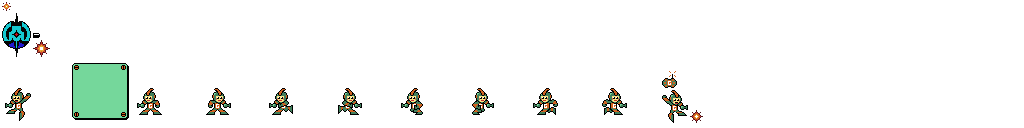
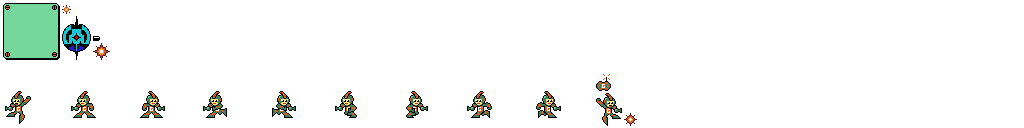
Add 9 patches for the platforms

diff --git a/GigaGalPrototype/core/src/com/udacity/gamedev/gigagal/util/Assets.java b/GigaGalPrototype/core/src/com/udacity/gamedev/gigagal/util/Assets.java
@@ -6,10 +6,9 @@ import com.badlogic.gdx.assets.AssetErrorListener;
 import com.badlogic.gdx.assets.AssetManager;
 import com.badlogic.gdx.graphics.g2d.Animation;
 import com.badlogic.gdx.graphics.g2d.Animation.PlayMode;
-import com.badlogic.gdx.graphics.g2d.SpriteBatch;
+import com.badlogic.gdx.graphics.g2d.NinePatch;
 import com.badlogic.gdx.graphics.g2d.TextureAtlas;
 import com.badlogic.gdx.graphics.g2d.TextureAtlas.AtlasRegion;
-import com.badlogic.gdx.math.Vector2;
 import com.badlogic.gdx.utils.Array;
 import com.sun.media.jfxmediaimpl.MediaDisposer.Disposable;
 
@@ -23,6 +22,7 @@ public class Assets implements Disposable, AssetErrorListener {
     private AssetManager assetManager;
 
     public GigaGalAssets gigaGalAssets;
+    public PlatformAssets platformAssets;
 
     public static final Assets instance = new Assets();
 
@@ -39,6 +39,7 @@ public class Assets implements Disposable, AssetErrorListener {
 
         TextureAtlas atlas = assetManager.get(Constants.TEXTURE_ATLAS);
         gigaGalAssets = new GigaGalAssets(atlas);
+        platformAssets = new PlatformAssets(atlas);
     }
 
     @Override
@@ -90,15 +91,23 @@ public class Assets implements Disposable, AssetErrorListener {
             walkingRightFrames.add(atlas.findRegion(Constants.WALKING_RIGHT_3));
             walkingRightAnimation = new Animation(Constants.WALK_LOOP_DURATION, walkingRightFrames, PlayMode.LOOP);
 
-
             Gdx.app.log(TAG, "GigaGal assets ready!");
+        }
+    }
+
+    public class PlatformAssets{
+
+        public final NinePatch platformNinePatch;
+
+        public PlatformAssets(TextureAtlas atlas){
+
+            AtlasRegion region = atlas.findRegion(Constants.PLATFORM_SPRITE);
+
+            int edge = Constants.PLATFORM_EDGE;
+
+            platformNinePatch = new NinePatch(region, edge, edge, edge, edge);
 
         }
-
-        public void render(SpriteBatch batch, Vector2 position){
-
-        }
-
 
     }
 

diff --git a/GigaGalPrototype/core/src/com/udacity/gamedev/gigagal/entities/GigaGal.java b/GigaGalPrototype/core/src/com/udacity/gamedev/gigagal/entities/GigaGal.java
@@ -48,26 +48,7 @@ public class GigaGal {
     public void update(float delta, Array<Platform> platforms) {
         lastFramePosition.set(position);
 
-        if (Gdx.input.isKeyPressed(Keys.LEFT)) {
-            moveLeft(delta);
-        } else if (Gdx.input.isKeyPressed(Keys.RIGHT)) {
-            moveRight(delta);
-        } else {
-            walkState = WalkState.STANDING;
 
-        }
-
-        if (Gdx.input.isKeyPressed(Keys.Z)) {
-            switch (jumpState) {
-                case GROUNDED:
-                    startJump();
-                    break;
-                case JUMPING:
-                    continueJump();
-            }
-        } else {
-            endJump();
-        }
 
 
         velocity.y -= Constants.GRAVITY;
@@ -111,9 +92,27 @@ public class GigaGal {
                 }
             }
 
+        }
 
+        if (Gdx.input.isKeyPressed(Keys.LEFT)) {
+            moveLeft(delta);
+        } else if (Gdx.input.isKeyPressed(Keys.RIGHT)) {
+            moveRight(delta);
+        } else {
+            walkState = WalkState.STANDING;
 
+        }
 
+        if (Gdx.input.isKeyPressed(Keys.Z)) {
+            switch (jumpState) {
+                case GROUNDED:
+                    startJump();
+                    break;
+                case JUMPING:
+                    continueJump();
+            }
+        } else {
+            endJump();
         }
 
 

diff --git a/GigaGalPrototype/core/src/com/udacity/gamedev/gigagal/Level.java b/GigaGalPrototype/core/src/com/udacity/gamedev/gigagal/Level.java
@@ -2,7 +2,6 @@ package com.udacity.gamedev.gigagal;
 
 import com.badlogic.gdx.graphics.g2d.SpriteBatch;
 import com.badlogic.gdx.graphics.glutils.ShapeRenderer;
-import com.badlogic.gdx.graphics.glutils.ShapeRenderer.ShapeType;
 import com.badlogic.gdx.utils.Array;
 import com.badlogic.gdx.utils.viewport.Viewport;
 import com.udacity.gamedev.gigagal.entities.GigaGal;
@@ -30,13 +29,18 @@ public class Level {
 
     public void render(SpriteBatch batch, ShapeRenderer renderer, Viewport viewport){
 
-        renderer.begin(ShapeType.Filled);
-        for (Platform platform : platforms){
-            platform.render(renderer);
-        }
-        renderer.end();
+//        renderer.begin(ShapeType.Filled);
+//        for (Platform platform : platforms){
+//            platform.render(renderer);
+//        }
+//        renderer.end();
 
         batch.begin();
+
+        for (Platform platform : platforms){
+            platform.render(batch);
+        }
+
         gigaGal.render(batch);
         batch.end();
 
@@ -45,9 +49,11 @@ public class Level {
 
 
     private void addDebugPlatforms(){
-        platforms.add(new Platform(20, 10, 20, 40));
+        platforms.add(new Platform(20, 11, 20, 40));
 
         platforms.add(new Platform(40, 10, 50, 80));
+
+        platforms.add(new Platform(75, 20, 90, 200));
 
     }
 

diff --git a/GigaGalPrototype/core/src/com/udacity/gamedev/gigagal/entities/Platform.java b/GigaGalPrototype/core/src/com/udacity/gamedev/gigagal/entities/Platform.java
@@ -1,8 +1,8 @@
 package com.udacity.gamedev.gigagal.entities;
 
 import com.badlogic.gdx.graphics.Color;
-import com.badlogic.gdx.graphics.glutils.ShapeRenderer;
-import com.badlogic.gdx.graphics.glutils.ShapeRenderer.ShapeType;
+import com.badlogic.gdx.graphics.g2d.SpriteBatch;
+import com.udacity.gamedev.gigagal.util.Assets;
 
 /**
  * Created by silver on 10/26/15.
@@ -25,11 +25,12 @@ public class Platform {
         this.right = right;
     }
 
-    public void render(ShapeRenderer renderer){
-        renderer.set(ShapeType.Filled);
-        renderer.setColor(PLATFORM_COLOR);
+    public void render(SpriteBatch batch) {
 
-        renderer.rect(left, bottom, right - left, top - bottom);
+        float width = right - left;
+        float height = top - bottom;
+
+        Assets.instance.platformAssets.platformNinePatch.draw(batch, left - 1, bottom - 1, width + 2, height + 2);
 
     }
 

diff --git a/GigaGalPrototype/core/src/com/udacity/gamedev/gigagal/util/Constants.java b/GigaGalPrototype/core/src/com/udacity/gamedev/gigagal/util/Constants.java
@@ -26,6 +26,9 @@ public class Constants {
 
     public static final float WALK_LOOP_DURATION = 0.25f;
 
+    public static final String PLATFORM_SPRITE = "platform";
+    public static final int PLATFORM_EDGE = 8;
+
 
     public static final String TEXTURE_ATLAS = "images/gigagal.pack.atlas";
 
